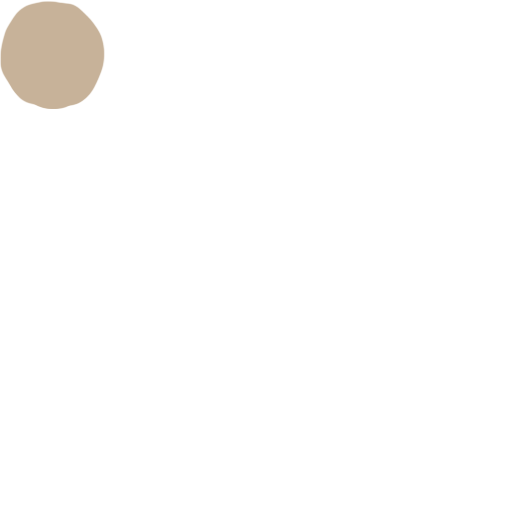
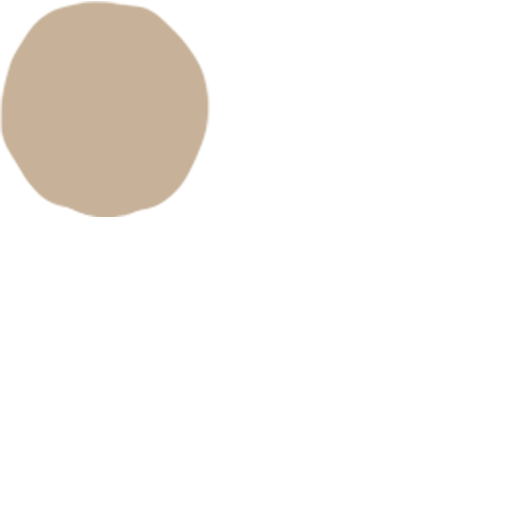
Revoluting wings and consistent component sizes

Changed region(s): [[0.0, 0.0, 0.4062, 0.4375]]

diff --git a/vox/Source/vox/src/PuppetResourceManager.cpp b/vox/Source/vox/src/PuppetResourceManager.cpp
@@ -16,9 +16,9 @@ Texture * PuppetResourceManager::tree2	= new Texture("../assets/hurly-burly/Foli
 Texture * PuppetResourceManager::bush1	= new Texture("../assets/hurly-burly/Foliage/Bush1.png", 1024, 1024, true, true);
 Texture * PuppetResourceManager::bush2	= new Texture("../assets/hurly-burly/Foliage/Bush2.png", 1024, 1024, true, true);
 
-TextureSampler * PuppetResourceManager::head1 = new TextureSampler(new Texture("../assets/hurly-burly/Head1.png", 512, 512, true, true), 106, 111); 
-TextureSampler * PuppetResourceManager::face1 = new TextureSampler(new Texture("../assets/hurly-burly/Face1.png", 512,512, true, true), 67, 72);
-TextureSampler * PuppetResourceManager::hand1 = new TextureSampler(new Texture("../assets/hurly-burly/Hand1.png", 512, 512, true, true), 38, 32);
+TextureSampler * PuppetResourceManager::head1 = new TextureSampler(new Texture("../assets/hurly-burly/Head1.png", 512, 512, true, true), 212, 222); 
+TextureSampler * PuppetResourceManager::face1 = new TextureSampler(new Texture("../assets/hurly-burly/Face1.png", 512,512, true, true), 67, 144);
+TextureSampler * PuppetResourceManager::hand1 = new TextureSampler(new Texture("../assets/hurly-burly/Hand1.png", 512, 512, true, true), 76, 64);
 
 TextureSampler * PuppetResourceManager::countDown0 = new TextureSampler(new Texture("../assets/hurly-burly/Countdown/0.png", 1024, 1024, true, true), 1024, 1024);
 TextureSampler * PuppetResourceManager::countDown1 = new TextureSampler(new Texture("../assets/hurly-burly/Countdown/1.png", 1024, 1024, true, true), 1024, 1024);

diff --git a/vox/Source/vox/src/PuppetCharacterDragon.cpp b/vox/Source/vox/src/PuppetCharacterDragon.cpp
@@ -33,23 +33,29 @@ PuppetCharacterDragon::PuppetCharacterDragon(Box2DWorld * _world, int16 _categor
 	world->b2world->DestroyJoint(handLeft->body->GetJointList()->joint);
 
 	// right wing
-	b2WeldJointDef rhrej;
+	b2RevoluteJointDef rhrej;
 	rhrej.bodyA = armRight->body;
 	rhrej.bodyB = handRight->body;
 	rhrej.localAnchorA.Set(armRight->getCorrectedWidth(), -0.2 * armRight->getCorrectedHeight());
 	rhrej.localAnchorB.Set(0.6 * handRight->getCorrectedWidth(), 0.9 * handRight->getCorrectedHeight());
 	rhrej.collideConnected = false;
+	rhrej.enableLimit = true;
 	rhrej.referenceAngle = glm::radians(0.f);
+	rhrej.lowerAngle = glm::radians(-45.f);
+	rhrej.upperAngle = glm::radians(0.f);
 	world->b2world->CreateJoint(&rhrej);
 
 	// left wing
-	b2WeldJointDef lhlej;
+	b2RevoluteJointDef lhlej;
 	lhlej.bodyA = armLeft->body;
 	lhlej.bodyB = handLeft->body;
 	lhlej.localAnchorA.Set(-armLeft->getCorrectedWidth(), -0.2 * armLeft->getCorrectedHeight());
 	lhlej.localAnchorB.Set(-0.6 * handLeft->getCorrectedWidth(), 0.9 * handLeft->getCorrectedHeight());
 	lhlej.collideConnected = false;
+	lhlej.enableLimit = true;
 	lhlej.referenceAngle = glm::radians(0.f);
+	lhlej.lowerAngle = glm::radians(0.f);
+	lhlej.upperAngle = glm::radians(45.f);
 	world->b2world->CreateJoint(&lhlej);
 	
 	//torso->body->SetGravityScale(0.0f);

diff --git a/vox/Source/vox/src/PuppetCharacter.cpp b/vox/Source/vox/src/PuppetCharacter.cpp
@@ -45,8 +45,8 @@ PuppetCharacter::PuppetCharacter(PuppetTexturePack * _texturePack, bool _ai, Box
 		);
 	}
 
-	head = new Box2DSprite(_world, b2_dynamicBody, false, nullptr, new Transform(), texPack->headTex->width, texPack->headTex->height, texPack->headTex->texture, componentScale * texPack->scale);
-	face = new Box2DSprite(_world, b2_dynamicBody, false, nullptr, new Transform(), texPack->faceTex->width, texPack->faceTex->height, texPack->faceTex->texture, componentScale * texPack->scale);
+	head = new Box2DSprite(_world, b2_dynamicBody, false, nullptr, new Transform(), texPack->headTex->width, texPack->headTex->height, texPack->headTex->texture, componentScale*0.5f * texPack->scale);
+	face = new Box2DSprite(_world, b2_dynamicBody, false, nullptr, new Transform(), texPack->faceTex->width, texPack->faceTex->height, texPack->faceTex->texture, componentScale*0.5f * texPack->scale);
 	handLeft = new Box2DSprite(_world, b2_dynamicBody, false, nullptr, new Transform(), texPack->handTex->width, texPack->handTex->height, texPack->handTex->texture, componentScale*0.5f * texPack->scale);
 	handRight = new Box2DSprite(_world, b2_dynamicBody, false, nullptr, new Transform(), texPack->handTex->width, texPack->handTex->height, texPack->handTex->texture, componentScale*0.5f * texPack->scale);
 
